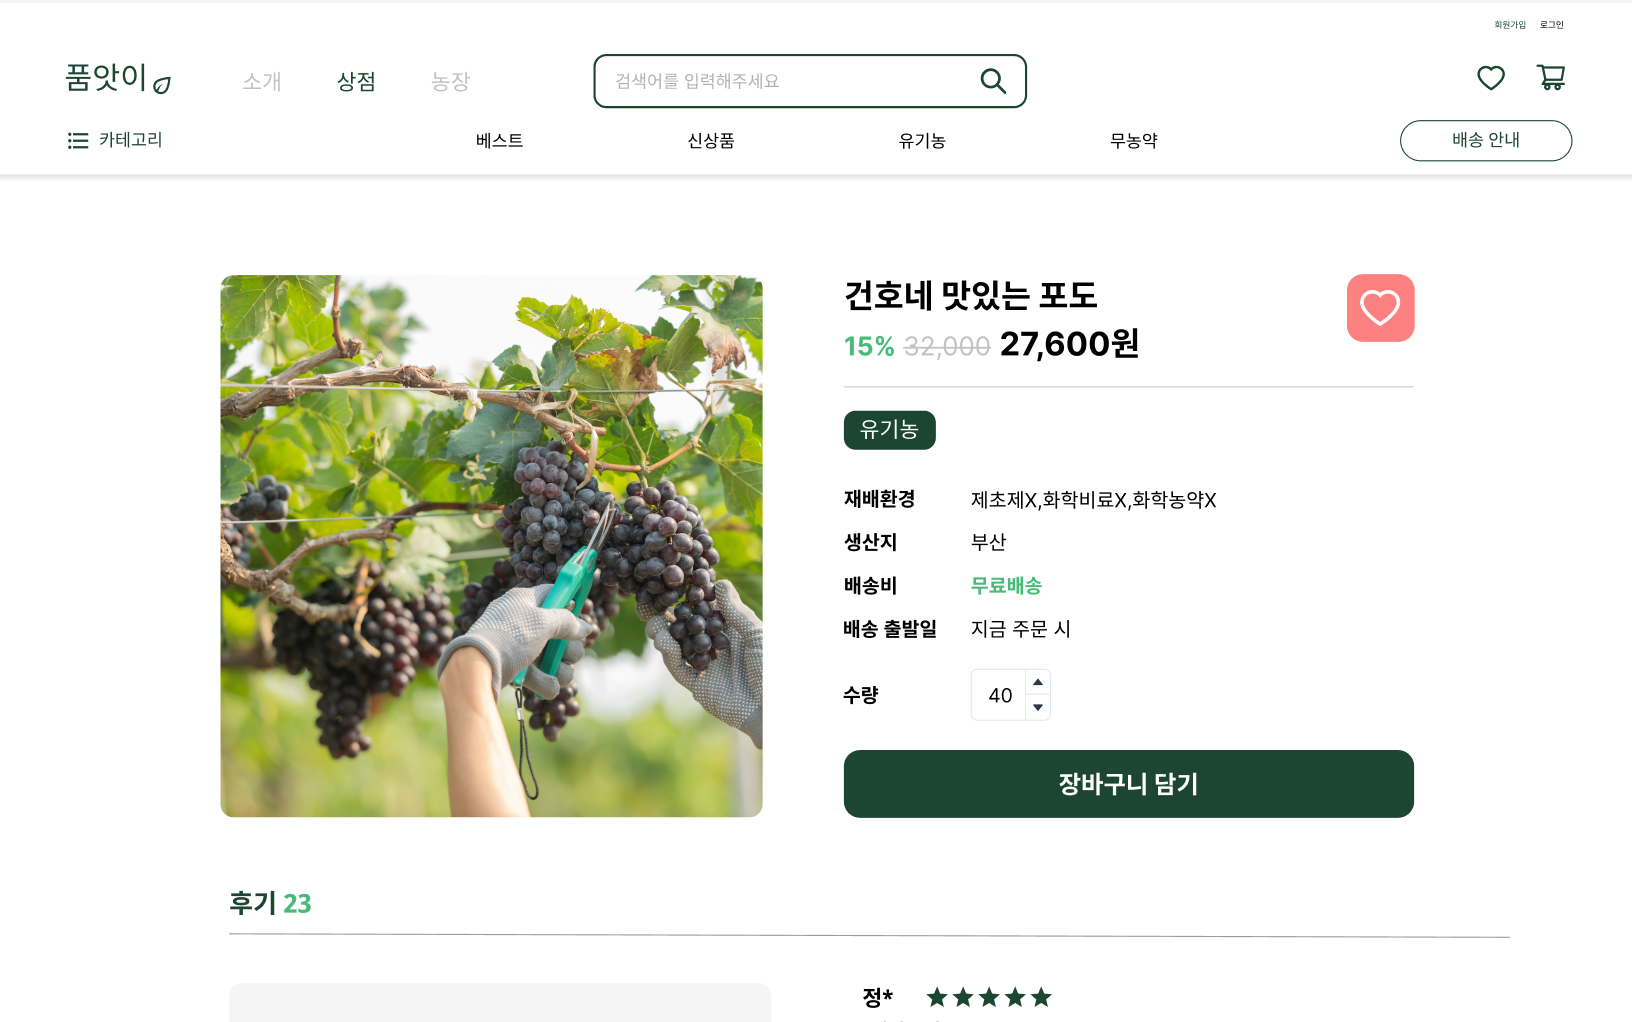
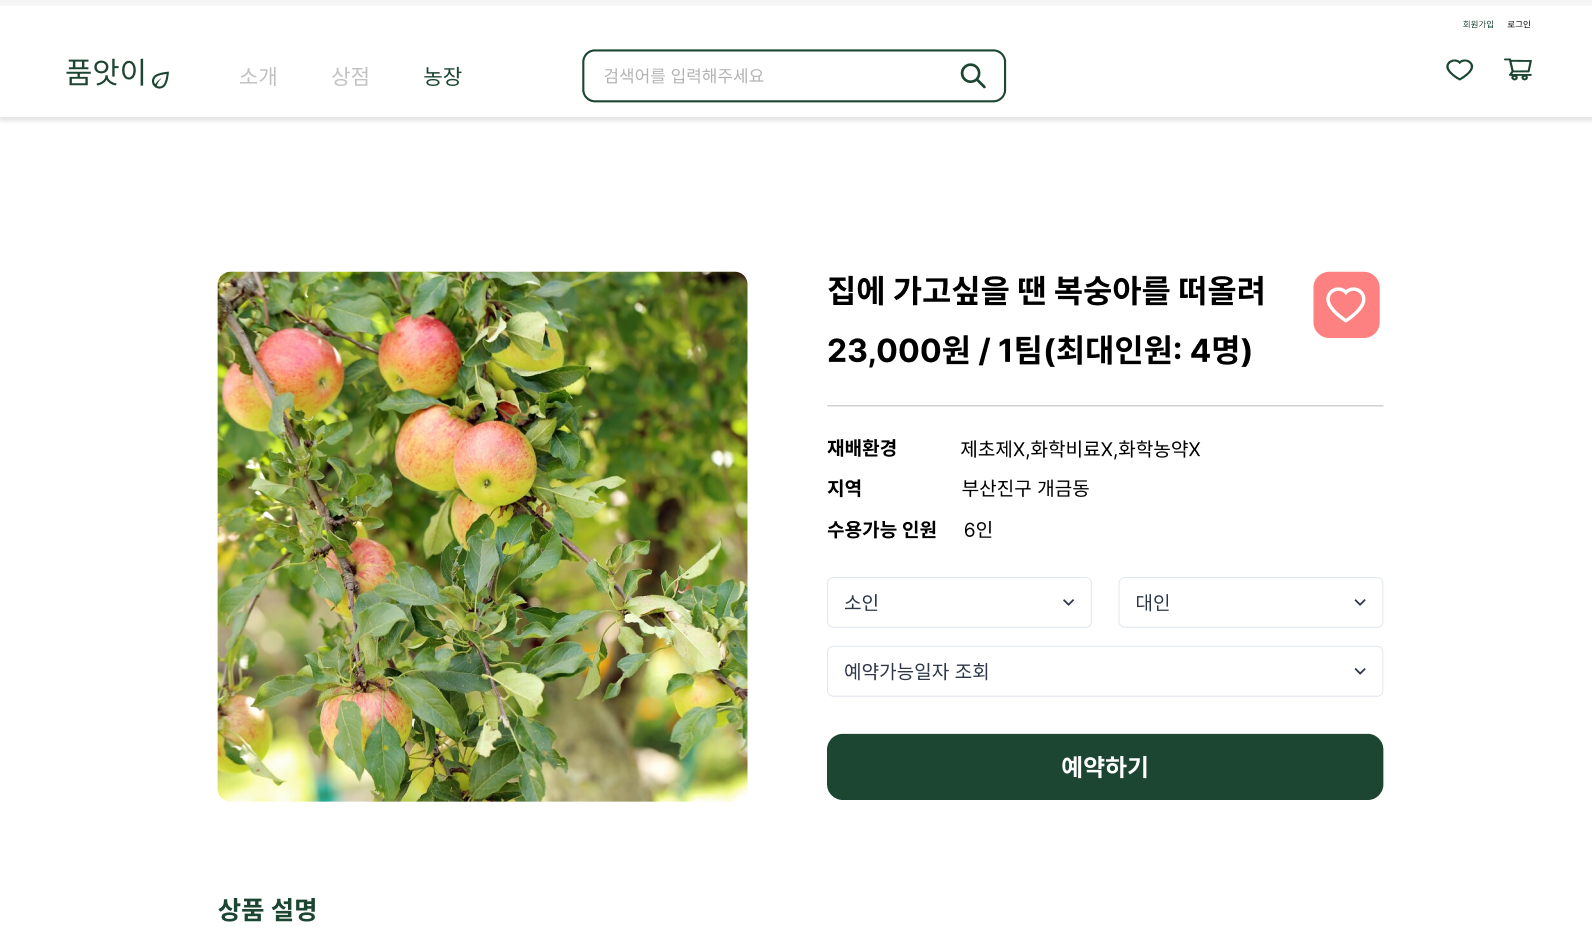
docs: product 이미지 변경

diff --git a/README.md b/README.md
@@ -280,13 +280,13 @@ naver:
 
 > 상품 도메인은 상품 정보를 관리하는 도메인입니다.
 
-![상품 도메인](docs/farm-domain.png)
+![상품 도메인](docs/product-domain.png)
 
 ### 농장 도메인
 
 > 농장 도메인은 농장 정보를 관리하는 도메인입니다.
 
-![농장 도메인](docs/product-domain.png)
+![농장 도메인](docs/farm-domain.png)
 
 #### 1. 농장 사업자 등록
 
